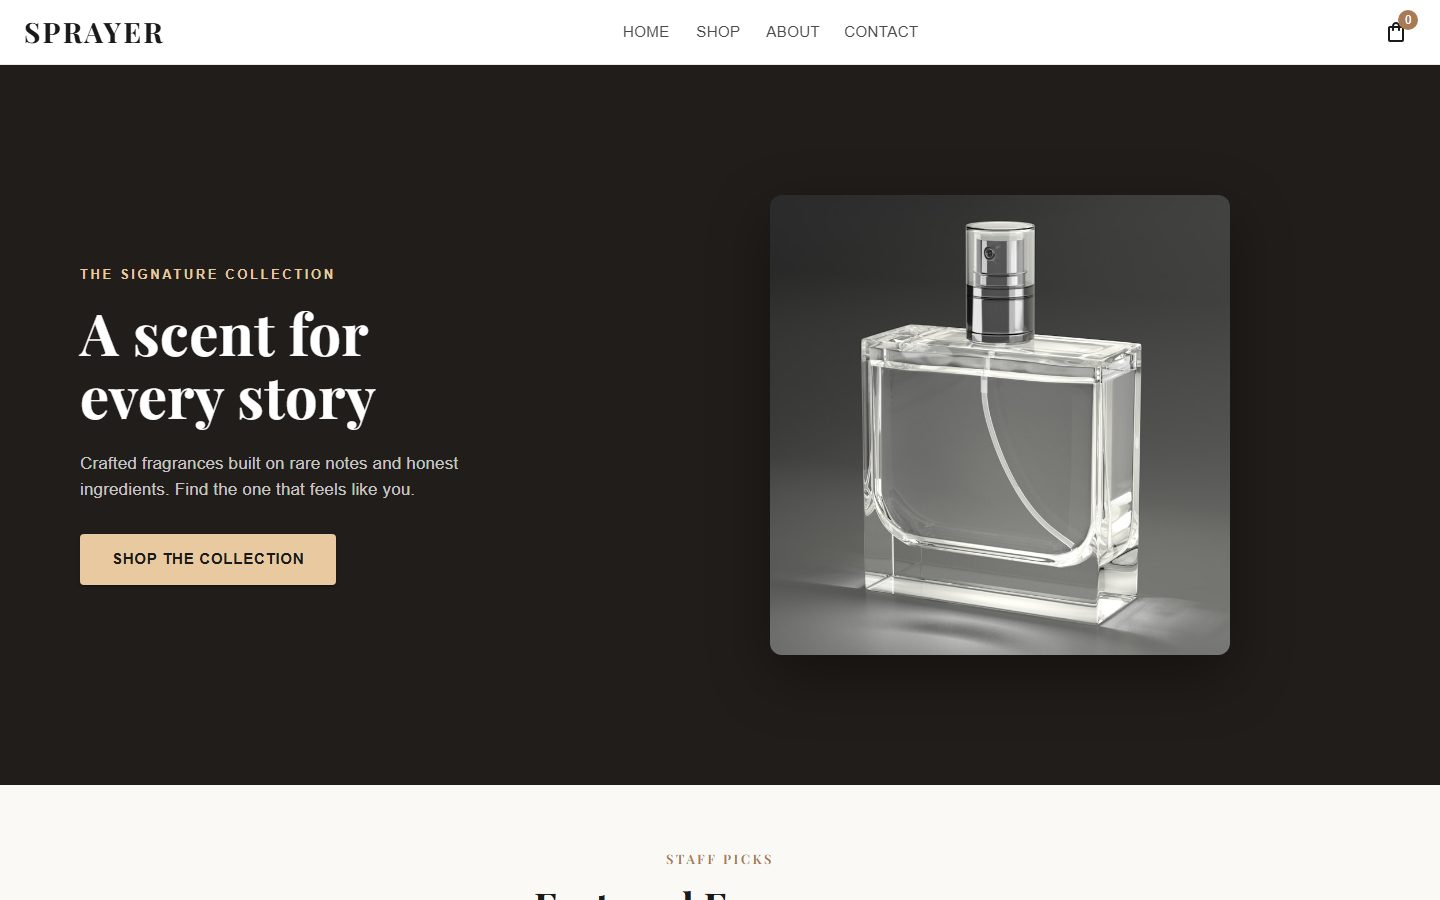
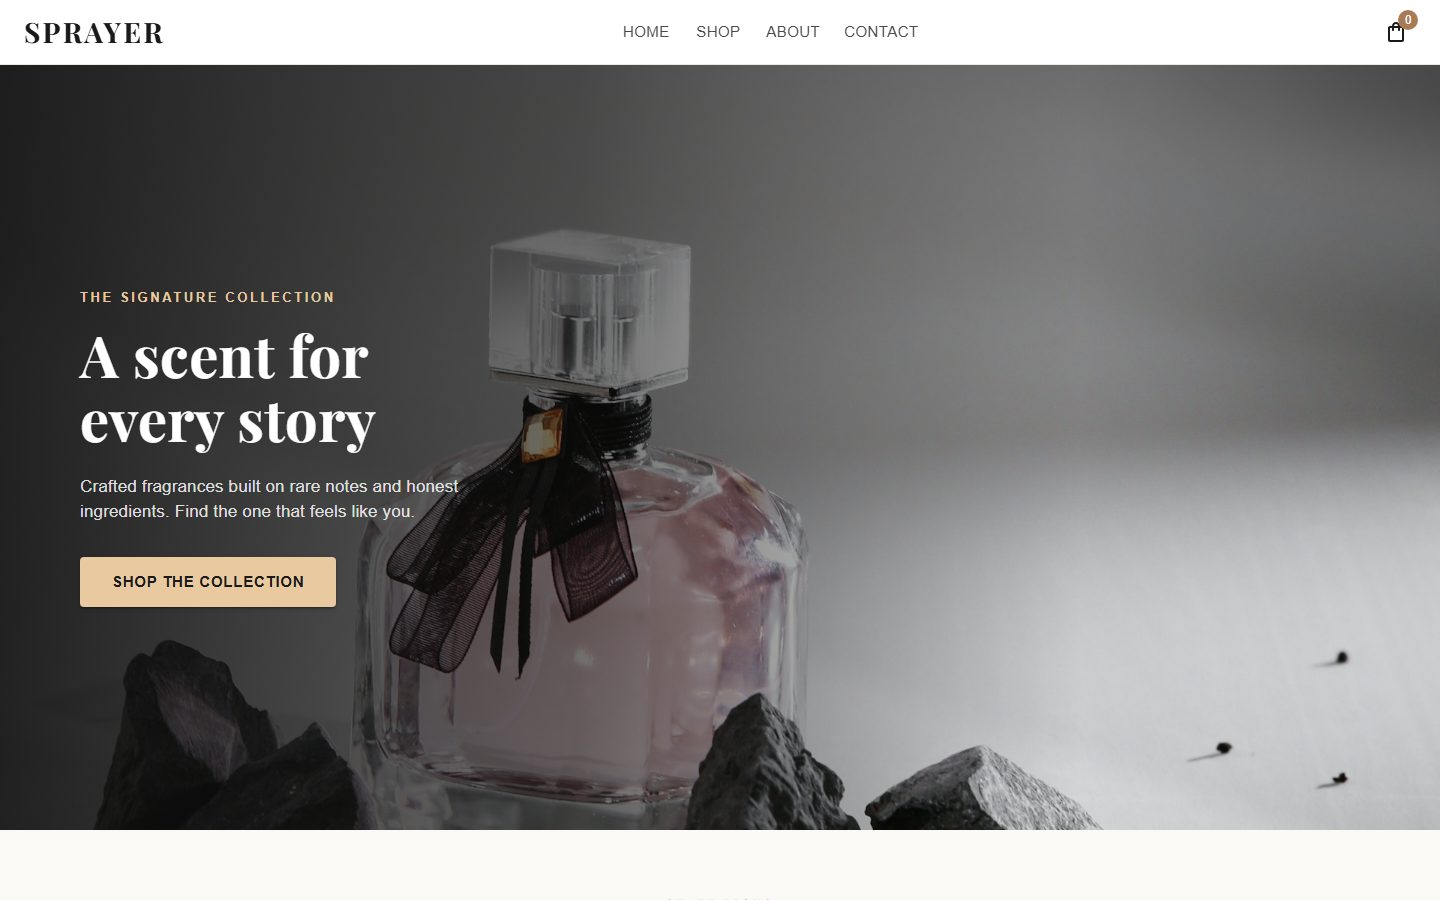
Switch hero to full-bleed editorial photography
The split layout with a studio product shot looked like a boxed
thumbnail rather than a real hero. Replaced with full-bleed editorial
lifestyle photography (bottle among rocks, dramatic lighting) and a
left-to-right gradient overlay, matching how real fragrance brand
sites present their hero image.

diff --git a/src/Pages/Home.jsx b/src/Pages/Home.jsx
@@ -14,7 +14,7 @@ import ShoppingBagOutlinedIcon from '@mui/icons-material/ShoppingBagOutlined';
 import { useState } from 'react';
 import { products, featuredProductIds } from '../data/products';
 import { useCart } from '../context/CartContext';
-import heroImage from '../assets/products/product-crystal-dark.jpg';
+import heroImage from '../assets/products/hero-editorial-rocks.jpg';
 
 const Home = () => {
   const { addItem } = useCart();
@@ -34,21 +34,35 @@ const Home = () => {
       {/* Hero */}
       <Box
         sx={{
-          backgroundColor: '#211d1a',
+          position: 'relative',
+          minHeight: { xs: '80vh', md: '85vh' },
           display: 'flex',
-          flexDirection: { xs: 'column', md: 'row' },
           alignItems: 'center',
-          minHeight: { xs: 'auto', md: '80vh' },
+          overflow: 'hidden',
         }}
       >
         <Box
+          component="img"
+          src={heroImage}
+          alt=""
           sx={{
-            flex: 1,
-            px: { xs: 4, md: 10 },
-            py: { xs: 8, md: 0 },
-            maxWidth: { md: '560px' },
+            position: 'absolute',
+            inset: 0,
+            width: '100%',
+            height: '100%',
+            objectFit: 'cover',
+            objectPosition: 'right center',
           }}
-        >
+        />
+        <Box
+          sx={{
+            position: 'absolute',
+            inset: 0,
+            background:
+              'linear-gradient(90deg, rgba(15,15,15,0.9) 0%, rgba(15,15,15,0.6) 40%, rgba(15,15,15,0.1) 75%)',
+          }}
+        />
+        <Box sx={{ position: 'relative', zIndex: 1, px: { xs: 4, md: 10 }, py: { xs: 6, md: 0 }, maxWidth: '600px' }}>
           <Typography
             sx={{ color: '#E8C9A0', letterSpacing: '0.2em', fontSize: '13px', fontWeight: 600, mb: 2 }}
           >
@@ -66,7 +80,7 @@ const Home = () => {
           >
             A scent for every story
           </Typography>
-          <Typography sx={{ color: 'rgba(255,255,255,0.75)', fontSize: '17px', mb: 4, maxWidth: '460px' }}>
+          <Typography sx={{ color: 'rgba(255,255,255,0.85)', fontSize: '17px', mb: 4, maxWidth: '460px' }}>
             Crafted fragrances built on rare notes and honest ingredients. Find the one that feels
             like you.
           </Typography>
@@ -87,30 +101,6 @@ const Home = () => {
           >
             Shop the Collection
           </Button>
-        </Box>
-
-        <Box
-          sx={{
-            flex: 1,
-            width: '100%',
-            display: 'flex',
-            alignItems: 'center',
-            justifyContent: 'center',
-            p: { xs: 4, md: 6 },
-          }}
-        >
-          <Box
-            component="img"
-            src={heroImage}
-            alt="Featured fragrance bottle"
-            sx={{
-              width: '100%',
-              maxWidth: '460px',
-              height: 'auto',
-              borderRadius: '12px',
-              boxShadow: '0 20px 60px rgba(0,0,0,0.4)',
-            }}
-          />
         </Box>
       </Box>
 
